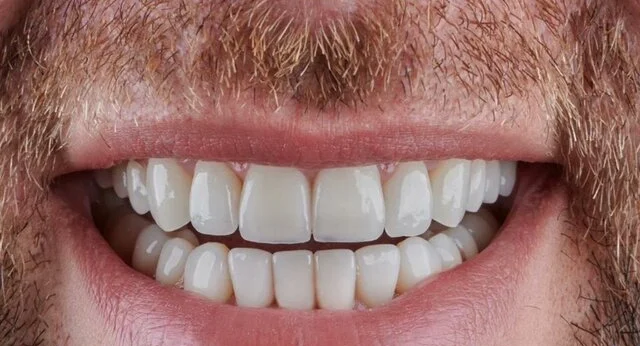
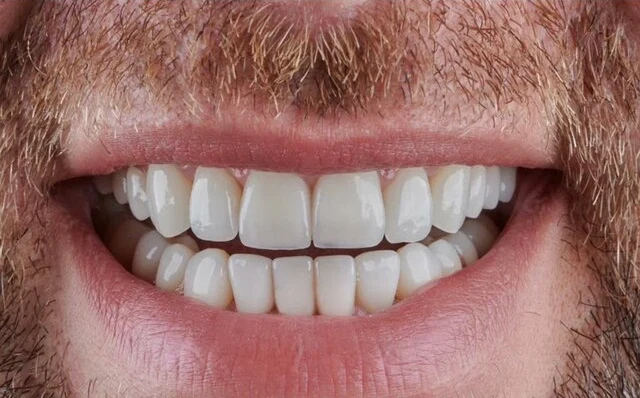
До/после: кадры выровнены по губам, работы 02 и 03 показаны целиком

diff --git a/script.js b/script.js
@@ -96,7 +96,7 @@
       labels: ['Было', 'Стало', 'Тон'],
       visits: 'Желтизна', term: 'Симметрия', price: 'Белоснежный',
       quote: '«Улыбка красивая, белоснежная. Налюбоваться не могу»', author: 'Ирина, отзыв о клинике на Яндекс Картах',
-      before: 'img/ba2_before.webp', after: 'img/ba2_after.webp', obj: 'img/o_pill.webp', shape: 'veneer'
+      fit: 'contain', before: 'img/ba2_before.webp', after: 'img/ba2_after.webp', obj: 'img/o_pill.webp', shape: 'veneer'
     },
     {
       title: 'Новая улыбка',
@@ -104,7 +104,7 @@
       labels: ['Было', 'Стало', 'Тон'],
       visits: 'Стёртость', term: 'Форма', price: 'Светлее',
       quote: '«Благодарю за мою новую прекрасную улыбку»', author: 'Лариса, отзыв о клинике на Яндекс Картах',
-      before: 'img/ba3_before.webp', after: 'img/ba3_after.webp', obj: 'img/o_tooth.webp', shape: 'tooth'
+      fit: 'contain', before: 'img/ba3_before.webp', after: 'img/ba3_after.webp', obj: 'img/o_tooth.webp', shape: 'tooth'
     }
   ];
 
@@ -139,6 +139,8 @@
       if (window.opal3d) window.opal3d.setShape($('#caseObj'), c.shape);
       $('#imgBefore').src = c.before;
       $('#imgAfter').src = c.after;
+      $('#imgBg').src = c.after;
+      compare.dataset.fit = c.fit || 'cover';
       caseCard.classList.remove('is-switching');
       compare.classList.remove('is-switching');
       sweep();

diff --git a/index.html b/index.html
@@ -190,9 +190,10 @@
     </div>
 
     <div class="cases reveal">
-      <div class="compare" id="compare" style="--pos:50%">
-        <img class="compare__img compare__after" id="imgAfter" src="img/ba1_after.webp" alt="Улыбка после работы в InWhite" width="800" height="346" loading="lazy" decoding="async">
-        <img class="compare__img compare__before" id="imgBefore" src="img/ba1_before.webp" alt="Улыбка до работы" width="800" height="346" loading="lazy" decoding="async">
+      <div class="compare" id="compare" style="--pos:50%" data-fit="cover">
+        <img class="compare__bg" id="imgBg" src="img/ba1_after.webp" alt="" aria-hidden="true" loading="lazy" decoding="async">
+        <img class="compare__img compare__after" id="imgAfter" src="img/ba1_after.webp" alt="Улыбка после работы в InWhite" width="785" height="297" loading="lazy" decoding="async">
+        <img class="compare__img compare__before" id="imgBefore" src="img/ba1_before.webp" alt="Улыбка до работы" width="785" height="297" loading="lazy" decoding="async">
         <span class="compare__line"></span>
         <button class="compare__handle" aria-label="Сдвинуть разделитель">
           <svg width="18" height="14" viewBox="0 0 18 14"><path d="M6 1 1 7l5 6M12 1l5 6-5 6" fill="none" stroke="currentColor" stroke-width="1.6" stroke-linecap="round" stroke-linejoin="round"/></svg>

diff --git a/styles.css b/styles.css
@@ -2092,3 +2092,7 @@ a, button, label, summary { -webkit-tap-highlight-color: transparent; }
 .footer__item--logo .footer__word { justify-content: center; }
 .cases__note { margin-top: 16px; font-size: 12.5px; color: var(--gray); }
 @media (max-width: 600px) { .footer__brand img { height: 52px; } }
+/* «до/после»: размытый фон под кадром, кадры целиком (без приближения) для широких работ */
+.compare__bg { position: absolute; inset: -8%; width: 116%; height: 116%; object-fit: cover; filter: blur(26px) saturate(1.1) brightness(.92); pointer-events: none; transition: opacity .35s; }
+.compare.is-switching .compare__bg { opacity: 0; }
+.compare[data-fit="contain"] .compare__img { object-fit: contain; }
